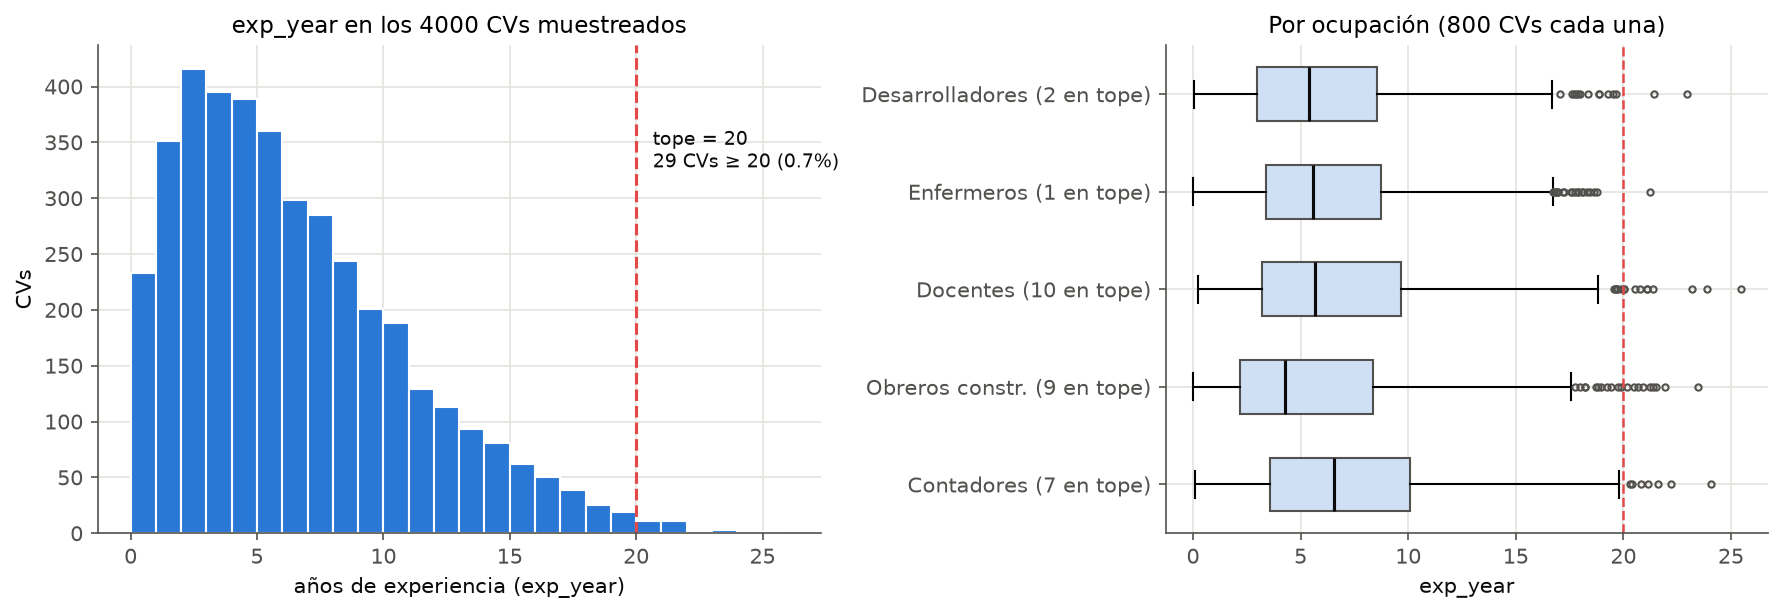
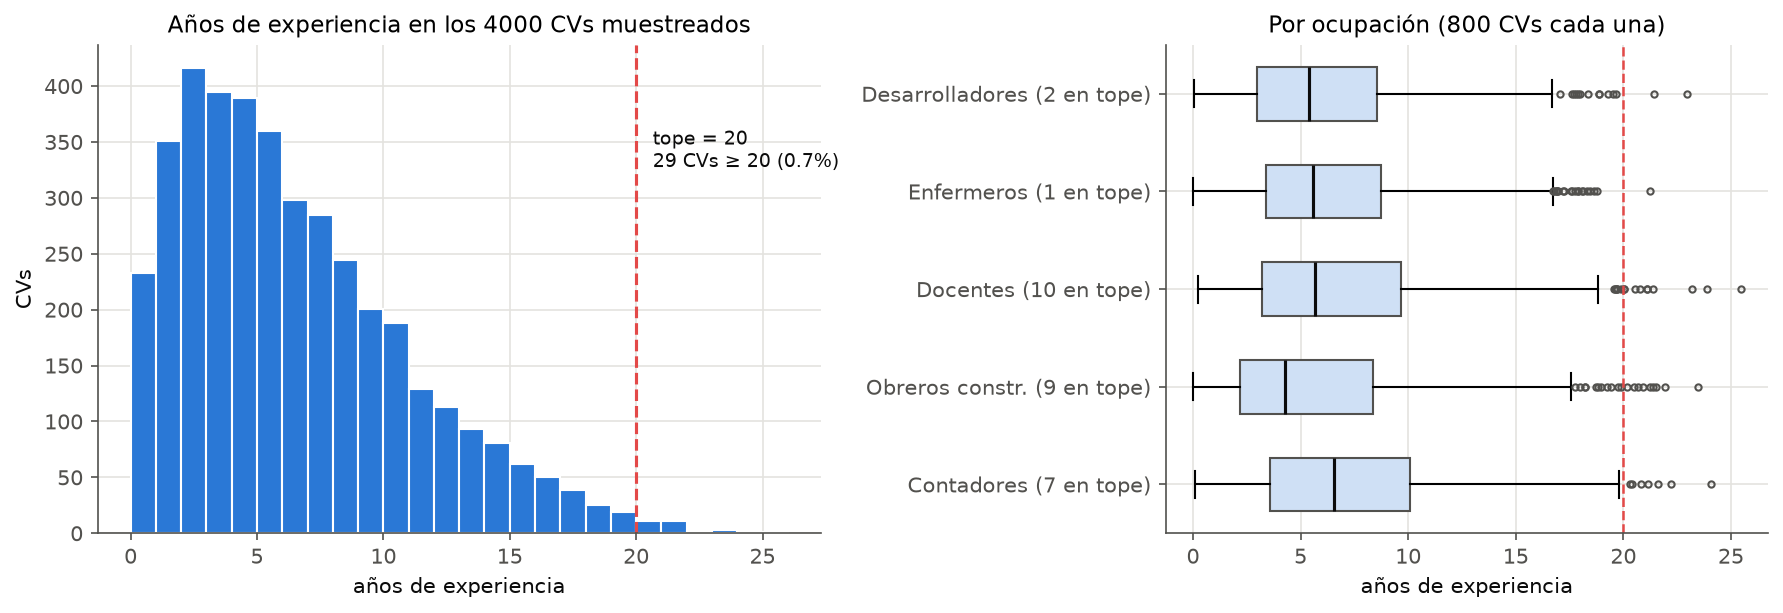
Tarea 3: quita exp_year del texto visible de la app y de la figura de distribución

diff --git a/Tarea Septiembre/Tarea 3/app.py b/Tarea Septiembre/Tarea 3/app.py
@@ -215,7 +215,7 @@ with tab1:
     st.header("Problema")
     st.markdown(
         "Predecir, a partir de la **imagen de su CV**, los **años de experiencia laboral** de una persona "
-        "(variable objetivo: `exp_year`, continua entre 0 y 20), sin que el CV diga explícitamente cuántos años "
+        "(la variable objetivo, continua entre 0 y 20), sin que el CV diga explícitamente cuántos años "
         "tiene. Un sistema así sirve para "
         "**pre-llenar perfiles** o **priorizar la revisión** de CVs en reclutamiento; **nunca** para decidir una "
         "contratación (ver Pregunta 4).")
@@ -255,7 +255,7 @@ with tab1:
 with tab2:
     st.header("Distribución de la variable objetivo")
     show_fig(V.fig_exp_distribution(),
-             "Histograma de `exp_year` en los 4000 CVs y caja por ocupación. La mayoría tiene menos de 10 años y la "
+             "Histograma de los años de experiencia de los 4000 CVs y caja por ocupación. La mayoría tiene menos de 10 años y la "
              "cola llega a 25,5; como menos del 1 % supera 20, el tope de 20 casi no recorta información.")
 
     st.header("Calidad del OCR")
@@ -319,7 +319,7 @@ with tab3:
                                   "band_accuracy": "acc. bandas %", "band_macro_f1": "F1 macro bandas",
                                   "bias": "sesgo (pred−real)"})
         show_table(cmp, "MAE = error absoluto medio en años (menor es mejor). BERT es el mejor modelo aprendido; la "
-                        "regla de fechas (bonus, sin aprendizaje) es aún mejor porque `exp_year` es casi la suma de "
+                        "regla de fechas (bonus, sin aprendizaje) es aún mejor porque los años de experiencia son casi la suma de "
                         "las duraciones de los empleos.")
     else:
         st.warning("Falta output/tables/model_comparison.csv")

diff --git a/Tarea Septiembre/Tarea 3/src/visualization.py b/Tarea Septiembre/Tarea 3/src/visualization.py
@@ -137,7 +137,7 @@ def fig_exp_distribution() -> plt.Figure | None:
     ax.annotate(f"tope = {U.TARGET_CAP}\n{n_cap} CVs ≥ {U.TARGET_CAP} ({n_cap / len(exp):.1%})",
                 xy=(U.TARGET_CAP, ax.get_ylim()[1] * 0.75), xytext=(8, 0), textcoords="offset points",
                 color=INK, fontsize=9)
-    ax.set(title=f"exp_year en los {len(exp)} CVs muestreados", xlabel="años de experiencia (exp_year)",
+    ax.set(title=f"Años de experiencia en los {len(exp)} CVs muestreados", xlabel="años de experiencia",
            ylabel="CVs")
     ax = axes[1]
     occs = [o for o in U.OCCUPATIONS if o in set(meta["occupation"])]
@@ -149,7 +149,7 @@ def fig_exp_distribution() -> plt.Figure | None:
     ax.set_yticks(range(1, len(occs) + 1), [f"{OCC_SHORT[o]} ({int((d >= U.TARGET_CAP).sum())} en tope)"
                                             for o, d in zip(occs, data)])
     ax.axvline(U.TARGET_CAP, color="#e34948", ls="--", lw=1.2)
-    ax.set(title="Por ocupación (800 CVs cada una)", xlabel="exp_year")
+    ax.set(title="Por ocupación (800 CVs cada una)", xlabel="años de experiencia")
     fig.tight_layout()
     return fig
 
